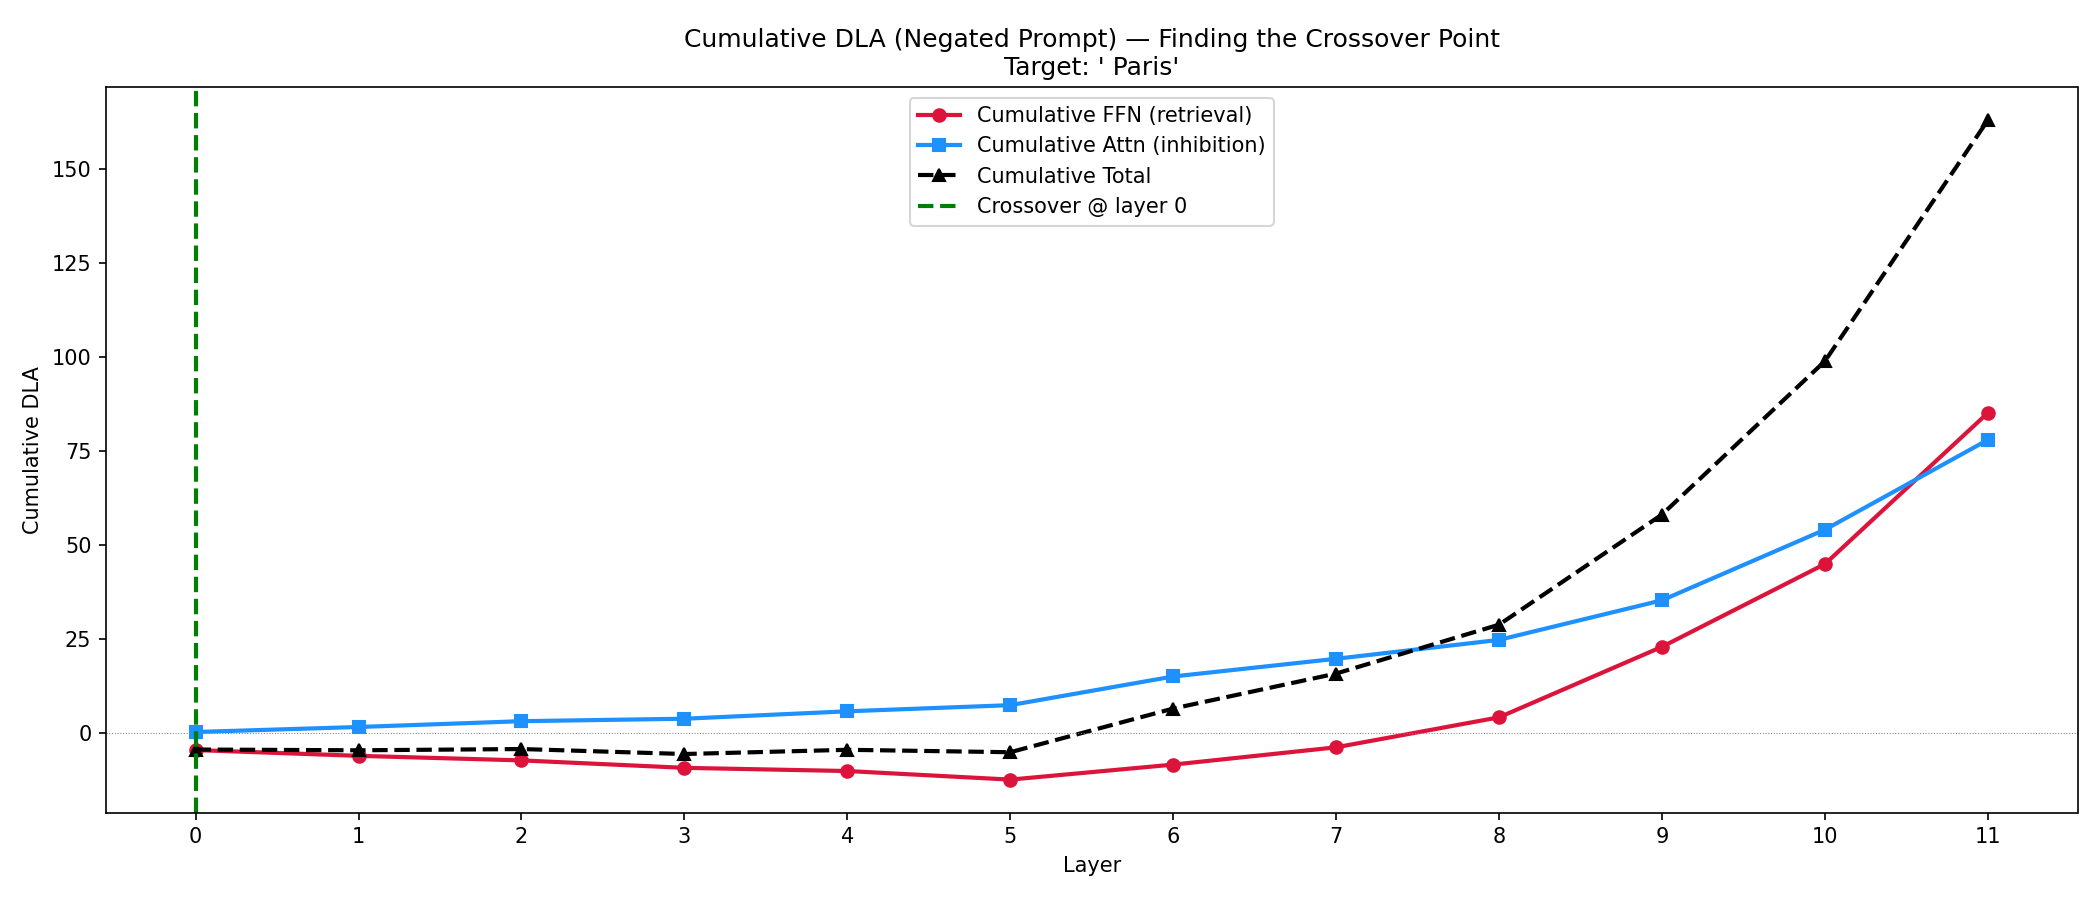
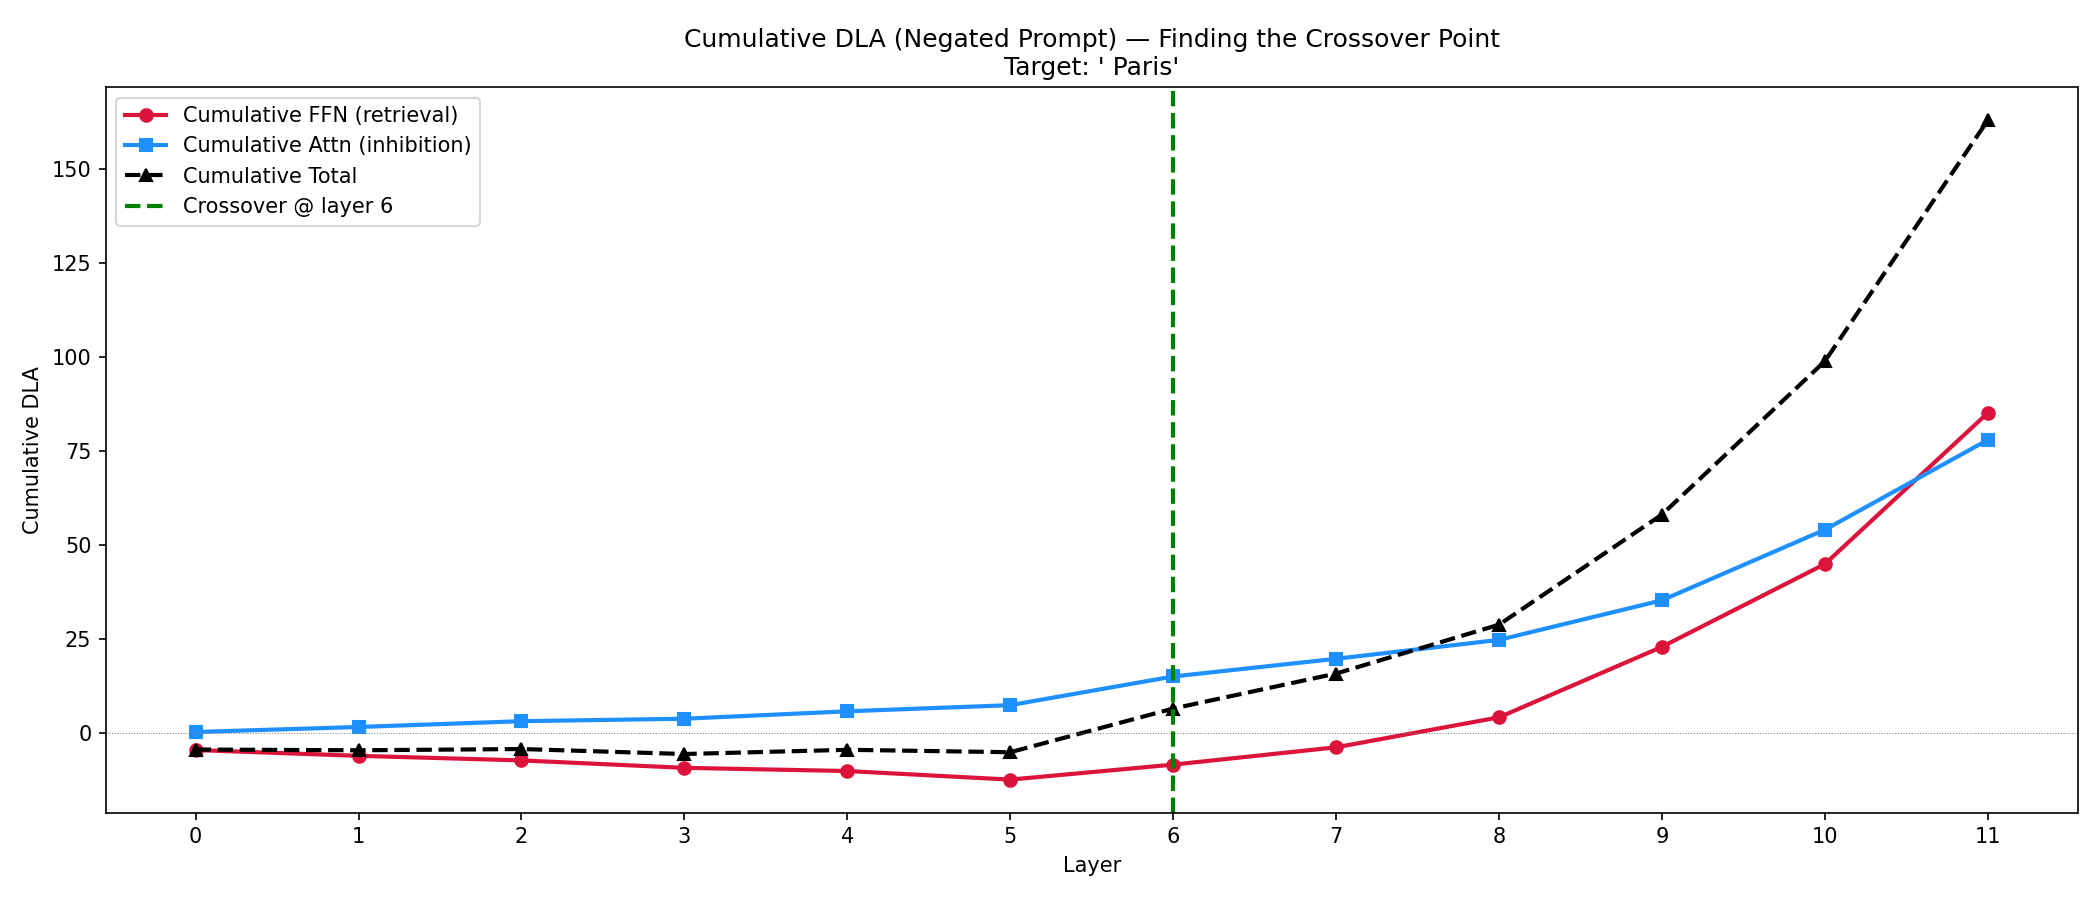
bug fixes in transformerLenstest

Changed region(s): [[0.0619, 0.0933, 0.2167, 0.28], [0.4333, 0.0933, 0.619, 0.2489], [0.5571, 0.2489, 0.5881, 0.28]]

diff --git a/transformerLenstest.py b/transformerLenstest.py
@@ -119,9 +119,12 @@ print(
     ),
 )
 
-negation_failure = neg_info["target_rank"] <= 3
+# Negation failure: the negated prompt should INCREASE the target's rank
+# (lower probability). If the rank is lower (= higher prob) in the negated
+# prompt than in the positive prompt, the model failed to suppress the target.
+negation_failure = neg_info["target_rank"] < pos_info["target_rank"]
 print(
-    f"\n→ Negation failure? {'YES — model still ranks target highly!' if negation_failure else 'No — model suppressed it.'}"
+    f"\n→ Negation failure? {'YES — target ranked higher after negation!' if negation_failure else 'No — model suppressed it.'}"
 )
 print()
 
@@ -343,17 +346,23 @@ for layer in range(n_layers):
         f"{cumulative_total[layer]:>10.3f}"
     )
 
-# Find crossover: first layer where cumulative total goes negative
+# Find crossover: the first layer where the cumulative total flips from
+# negative (net inhibition) to positive (net retrieval / negation failure).
+# If the total is always negative  → suppression holds throughout (success).
+# If the total is always positive  → retrieval dominates from the start.
+# If there is a sign change → crossover marks where retrieval wins.
 crossover = None
-for layer in range(n_layers):
-    if cumulative_total[layer] < 0:
+for layer in range(1, n_layers):
+    if cumulative_total[layer - 1] < 0 <= cumulative_total[layer]:
         crossover = layer
         break
 
-if crossover is not None:
-    print(f"\n→ Crossover at layer {crossover}: inhibition overtakes retrieval!")
+if all(v >= 0 for v in cumulative_total):
+    print(f"\n→ No crossover: retrieval dominates from the start. Negation fails.")
+elif all(v < 0 for v in cumulative_total):
+    print(f"\n→ No crossover: inhibition holds throughout. Successful suppression.")
 else:
-    print(f"\n→ No crossover found: retrieval dominates throughout. Negation fails.")
+    print(f"\n→ Crossover at layer {crossover}: retrieval overcomes inhibition here.")
 print()
 
 
@@ -400,21 +409,20 @@ print()
 def patch_residual_hook(value, hook, pos_cache, layer_idx):
     """Hook that patches the residual stream at a specific layer.
 
-    Replaces the negated-prompt activation with the positive-prompt
-    activation at the last token position.
+    Because GPT-2 uses causal (unidirectional) attention, every position
+    i sees only tokens 0..i. This means positions 0..(n-1) of the negated
+    prompt have IDENTICAL residual-stream values to those same positions in
+    the positive prompt — patching them would be a no-op and produce Δ=0.
 
-    Note: The positive and negated prompts have different sequence
-    lengths (negated has one extra token: 'not'). We patch the
-    last position of the negated prompt with the last position of
-    the positive prompt — this is the position where the model
-    makes its prediction.
+    The only position that actually differs between the two prompts is the
+    LAST position (where the model makes its next-token prediction). We
+    therefore patch only position -1 of the negated run with position -1
+    of the positive run, asking: "if this layer saw the positive-prompt
+    prediction-position activation, how would the output change?"
     """
-    # Get the positive activation for this layer
     pos_act = pos_cache[hook.name]
-    # Patch: replace last token position only
-    # Use min of the two sequence lengths for safety
-    min_seq = min(value.shape[1], pos_act.shape[1])
-    value[:, :min_seq, :] = pos_act[:, :min_seq, :]
+    # Patch only the last token position (prediction position)
+    value[:, -1, :] = pos_act[:, -1, :]
     return value
 
 
@@ -718,7 +726,7 @@ print(
   │    Inhibition : {inhibition_strength:>8.3f}                              │
   │    SGR        : {sgr:>8.3f}  {'(FAILURE)' if sgr > 1 else '(SUCCESS)'}                     │
   ├─────────────────────────────────────────────────────────┤
-  │  Crossover Point: {f'Layer {crossover}' if crossover else 'NONE (retrieval dominates)':>20}              │
+  │  Crossover Point: {f'Layer {crossover}' if crossover is not None else 'NONE':>20}              │
   └─────────────────────────────────────────────────────────┘
 
   Figures saved to ./{fig_dir}/

diff --git a/README.md b/README.md
@@ -49,7 +49,7 @@ INLP-Project-S26/
 Loads GPT-2 Small via TransformerLens and defines the prompt pair.
 
 ### Phase 1 — Behavioural Comparison
-Checks surface-level output: where does `" Paris"` rank for each prompt? A high rank on the negated prompt confirms the **negation failure**.
+Checks surface-level output: where does `"Paris"` rank for each prompt? A high rank on the negated prompt confirms the **negation failure**.
 
 ### Phase 2 — Residual Stream Decomposition
 Uses `cache.decompose_resid()` to break the final residual stream into each component's (embedding, attention, FFN) individual contribution — essentially "who wrote what" into the model's working memory.
